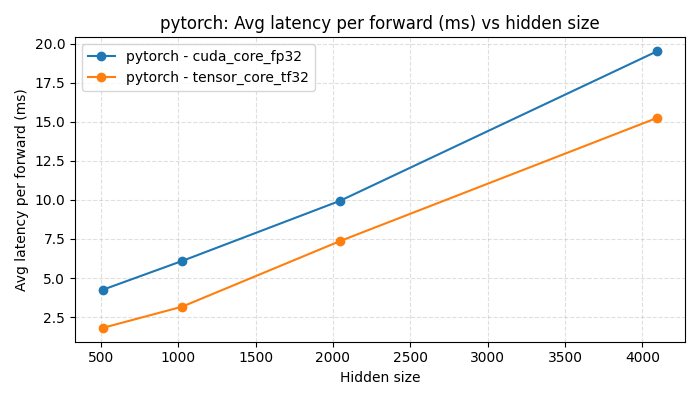
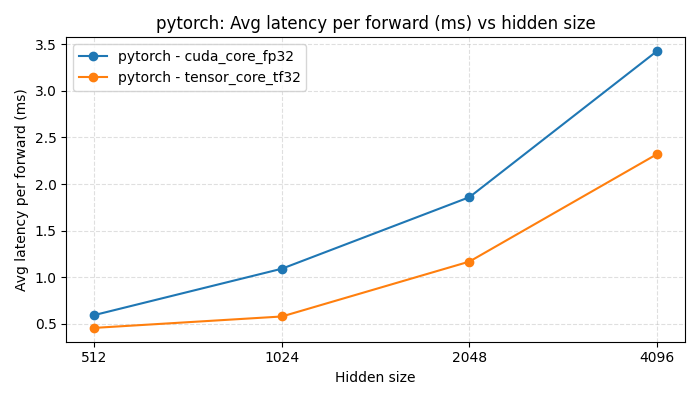
update benchmark configuration (16k hidden size, more iterations) and plot script (log-scaled x-axis)

diff --git a/cuda-benchmark/plot_benchmarks.py b/cuda-benchmark/plot_benchmarks.py
@@ -4,6 +4,7 @@ import csv
 from pathlib import Path
 
 import matplotlib.pyplot as plt
+from matplotlib.ticker import NullLocator
 
 
 def load_pytorch_results(path: Path):
@@ -29,6 +30,13 @@ def load_cublas_results(path: Path):
             row["tf32"] = bool(int(row["tf32"]))
             rows.append(row)
     return rows
+
+
+def _configure_hidden_xaxis(ax, hidden_sizes: list[int]) -> None:
+    ax.set_xscale("log", base=2)
+    ax.set_xticks(hidden_sizes)
+    ax.set_xticklabels([str(h) for h in hidden_sizes])
+    ax.xaxis.set_minor_locator(NullLocator())
 
 
 def plot_metric_vs_hidden(results, backend, metric, out_path: Path, ylabel: str):
@@ -61,6 +69,7 @@ def plot_metric_vs_hidden(results, backend, metric, out_path: Path, ylabel: str)
     plt.xlabel("Hidden size")
     plt.ylabel(ylabel)
     plt.title(f"{backend}: {ylabel} vs hidden size")
+    _configure_hidden_xaxis(plt.gca(), hidden_sizes)
     plt.grid(True, linestyle="--", alpha=0.4)
     plt.legend()
     out_path.parent.mkdir(parents=True, exist_ok=True)
@@ -106,6 +115,7 @@ def plot_metric_vs_hidden_combined(results, metric, out_path: Path, ylabel: str)
     plt.xlabel("Hidden size")
     plt.ylabel(ylabel)
     plt.title(f"Combined: {ylabel} vs hidden size")
+    _configure_hidden_xaxis(plt.gca(), hidden_sizes)
     plt.grid(True, linestyle="--", alpha=0.4)
     plt.legend()
     out_path.parent.mkdir(parents=True, exist_ok=True)
@@ -131,7 +141,7 @@ def main():
     parser.add_argument(
         "--out_dir",
         type=str,
-        default=str(Path("results") / "plots"),
+        default=str(Path("plots")),
         help="Directory to write plots into.",
     )
     args = parser.parse_args()

diff --git a/cuda-benchmark/pytorch_benchmark.py b/cuda-benchmark/pytorch_benchmark.py
@@ -98,14 +98,14 @@ def main():
     parser.add_argument(
         "--sizes",
         type=str,
-        default="64,128,256,512,1024,2048,4096,8192",
+        default="64,128,256,512,1024,2048,4096,8192,16384",
         help="Comma-separated list of hidden layer sizes to benchmark.",
     )
     parser.add_argument("--batch_size", type=int, default=256, help="Batch size.")
     parser.add_argument("--in_features", type=int, default=4096, help="Input feature dimension.")
     parser.add_argument("--out_features", type=int, default=4096, help="Output feature dimension.")
-    parser.add_argument("--warmup_iters", type=int, default=20, help="Warmup iterations.")
-    parser.add_argument("--timed_iters", type=int, default=100, help="Timed iterations per config.")
+    parser.add_argument("--warmup_iters", type=int, default=25, help="Warmup iterations.")
+    parser.add_argument("--timed_iters", type=int, default=200, help="Timed iterations per config.")
     parser.add_argument(
         "--device", type=str, default="cuda", help="Device to run on (default: cuda)."
     )

diff --git a/README.md b/README.md
@@ -71,6 +71,14 @@ Default benchmark configuration:
 - **Batch size**: 256
 - **Input features**: 4096
 - **Output features**: 4096
-- **Hidden sizes swept**: 64, 128, 256, 512, 1024, 2048, 4096, 8192 (configurable via `--sizes`)
-- **Warm-up iterations**: 20
-- **Timed iterations**: 100 (average latency and TFLOP/s reported over these forwards)
+- **Hidden sizes swept**: 64, 128, 256, 512, 1024, 2048, 4096, 8192, 16384 (configurable via `--sizes`)
+- **Warm-up iterations**: 25
+- **Timed iterations**: 200 (average latency and TFLOP/s reported over these forwards)
+
+## Colab notebook
+
+`cuda-benchmark/cuda_benchmark_colab.ipynb` mounts Google Drive, compiles the cuBLAS benchmark with `nvcc`, runs the PyTorch and cuBLAS benchmarks with their default settings, and writes plots under `cuda-benchmark/plots/`. Copy the `cuda-benchmark/` folder to `MyDrive/cuda-benchmark/` before running.
+
+The included results and plots were produced on a Google Colab runtime with an **A100** GPU.
+
+For an **A100** GPU: in Colab use **Runtime → Change runtime type → Hardware accelerator: GPU**, then pick an **A100** option if available.
